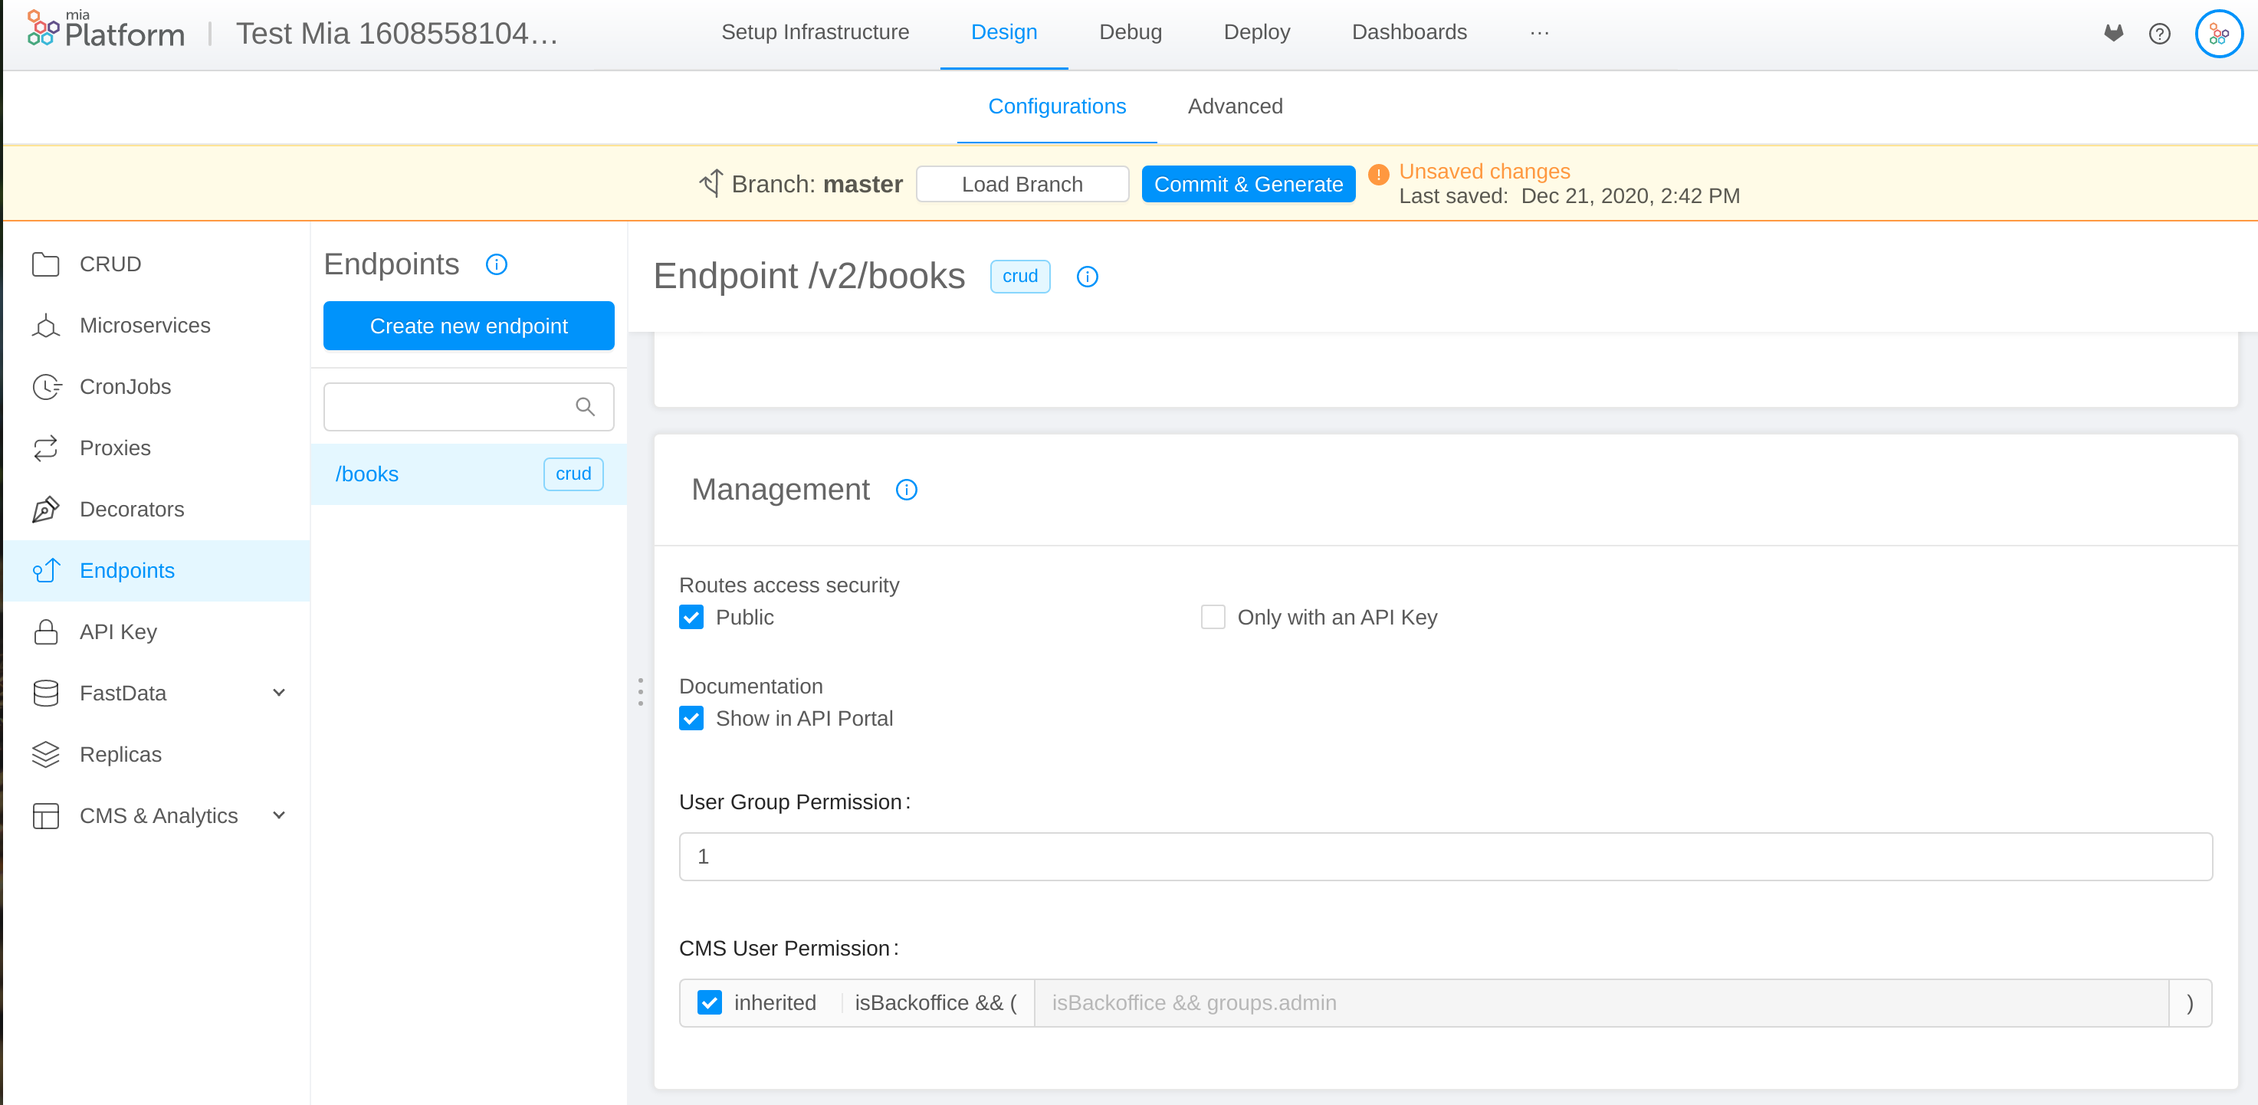
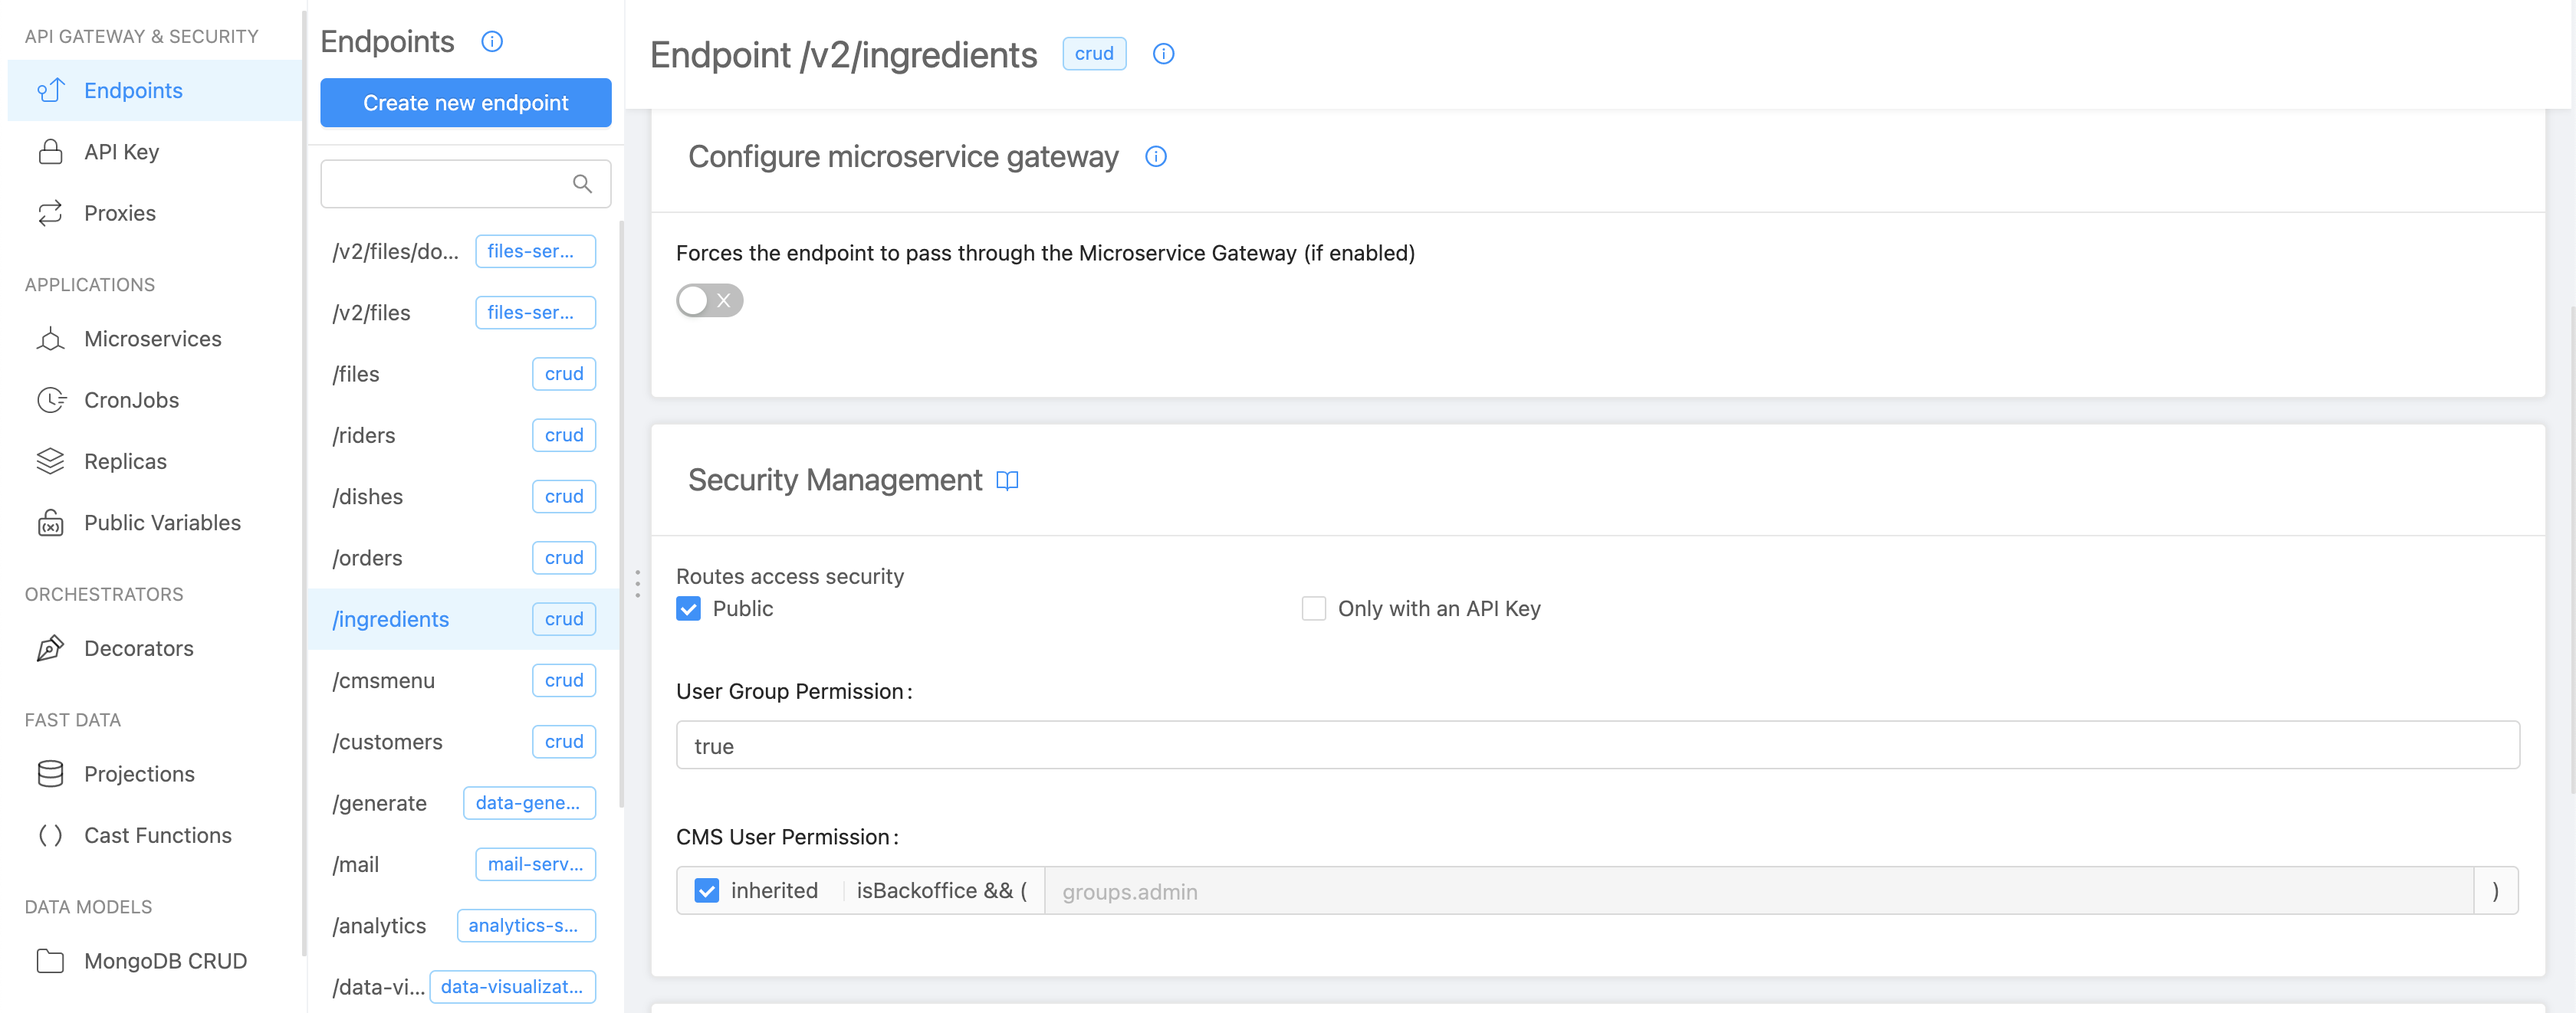
fix: changed 0 to false and 1 to true, updated screenshots

diff --git a/docs/development_suite/api-console/api-design/endpoints.md b/docs/development_suite/api-console/api-design/endpoints.md
@@ -80,7 +80,7 @@ The security can be managed at three levels:
     E.g:
 
       ```js
-        clientType=="apiKey" || clientType=="apiKey2"
+        clientType == "apiKey" || clientType == "apiKey2"
       ```
 
     :::info
@@ -113,7 +113,7 @@ The security can be managed at three levels:
     ["write:orders","view:orders"] in groups
     ```
 
-The group expression can also be set to `0` (**none**) or to `1` (**all**). You can combine different expressions using logical operators `&&` (and) and `||` (or).
+The group expression can also be set to `false` (to block all accesses to the API) or to `true` (to grant **all** accesses to the API). You can combine different expressions using logical operators `&&` (and) and `||` (or).
 
 If the endpoint is linked to a [CRUD](#crud) you can specify dedicated user permissions for the CMS application.
 Enable the flag `inherited` to use the displayed default expression or disable the flag to change it. However, you can't remove the checks on [isBackoffice](../../../runtime_suite/session-manager.md) property that ensures the expression will be considered only for calls will come from CMS.
@@ -171,7 +171,8 @@ In this section you can view all the path that can be called of a CRUD endpoint.
 If **inherited** is active the field will inherit the behavior of the base endpoint, de-selecting it can set specific rules related to this route.
 
 :::tip
-For example, we can set that the `DELETE/` can only be reserved for a specific group of users (admin).
-We must therefore choose not to inherit global settings. Then we de-select inherited and in the input we write: groups.admin.
+For example, we can set that the `DELETE /` route can only be reserved for a specific group of users (admin).
+If it differes from the endpoint settings we must therefore choose not to inherit global settings; we can de-select inherited and in the input we write: `groups.admin`.
+
 ![route example](img/example-endpoints.png)
 :::
